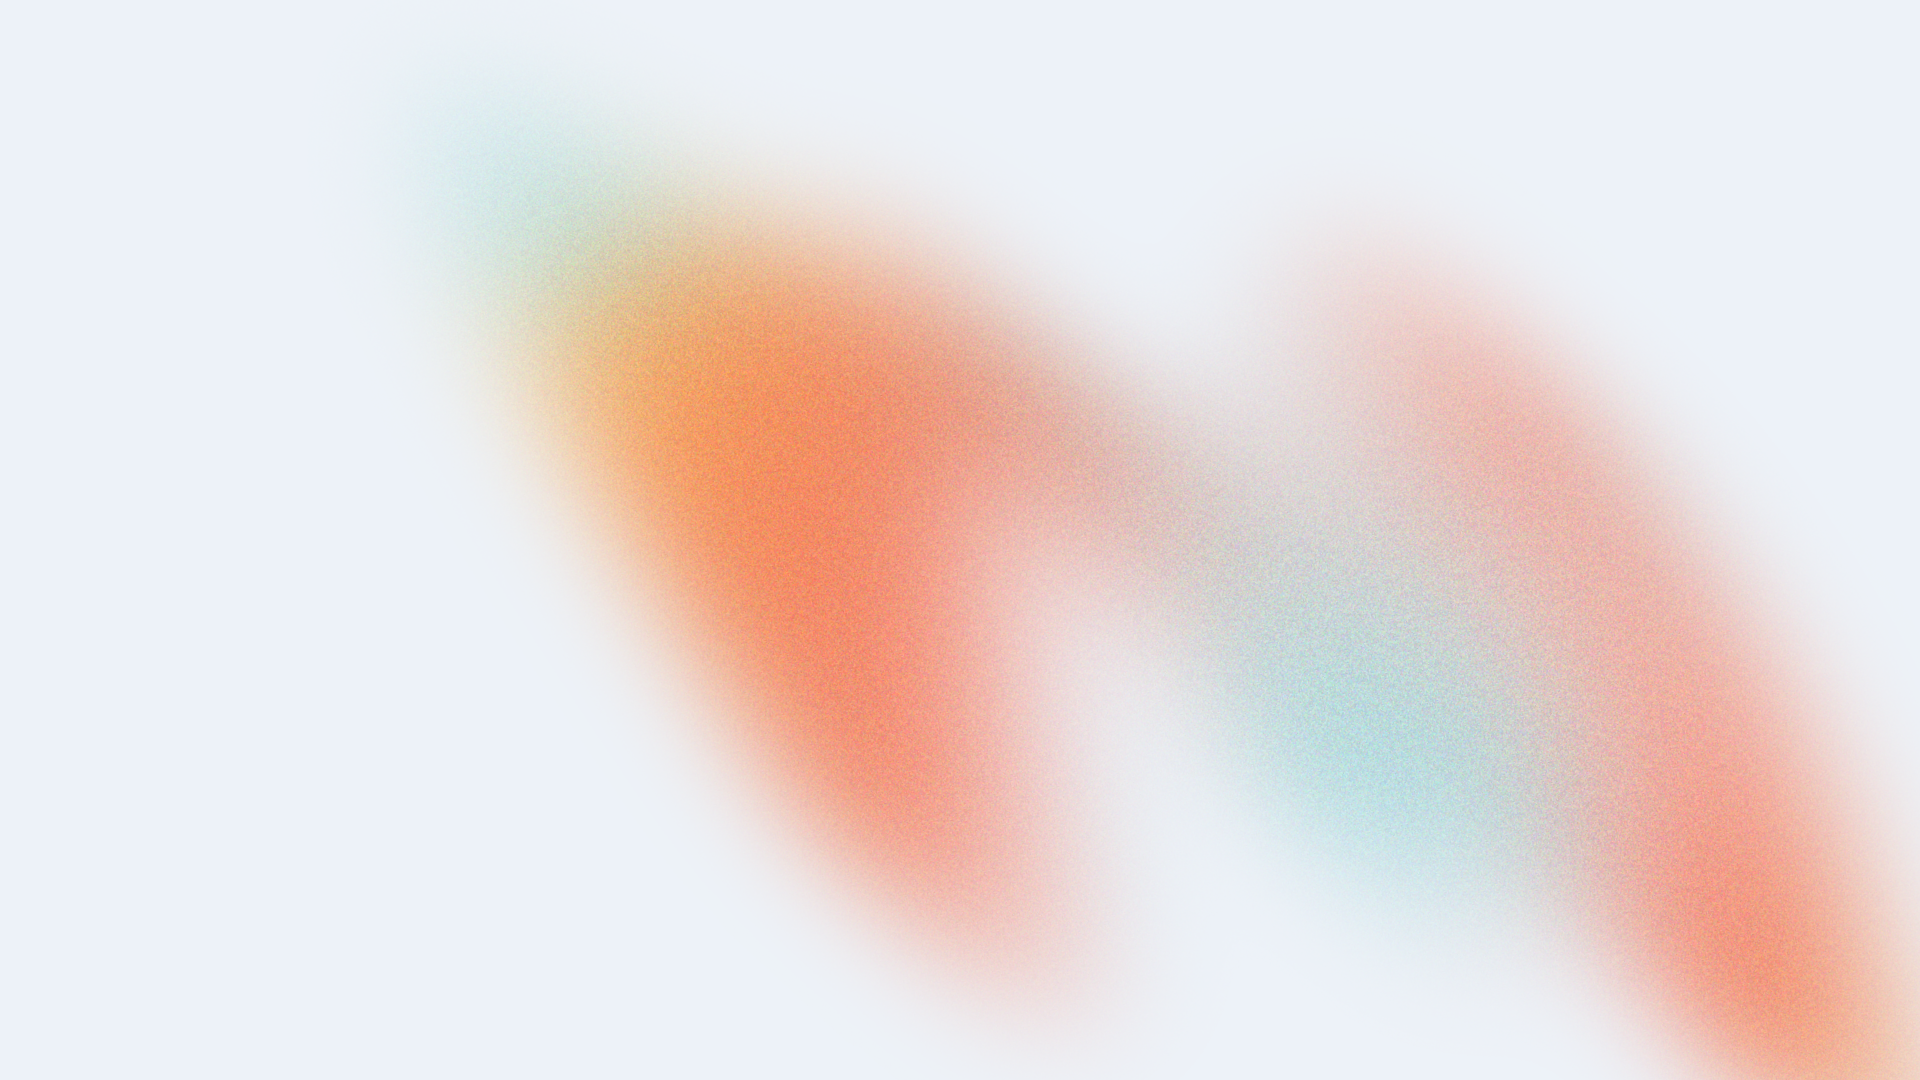
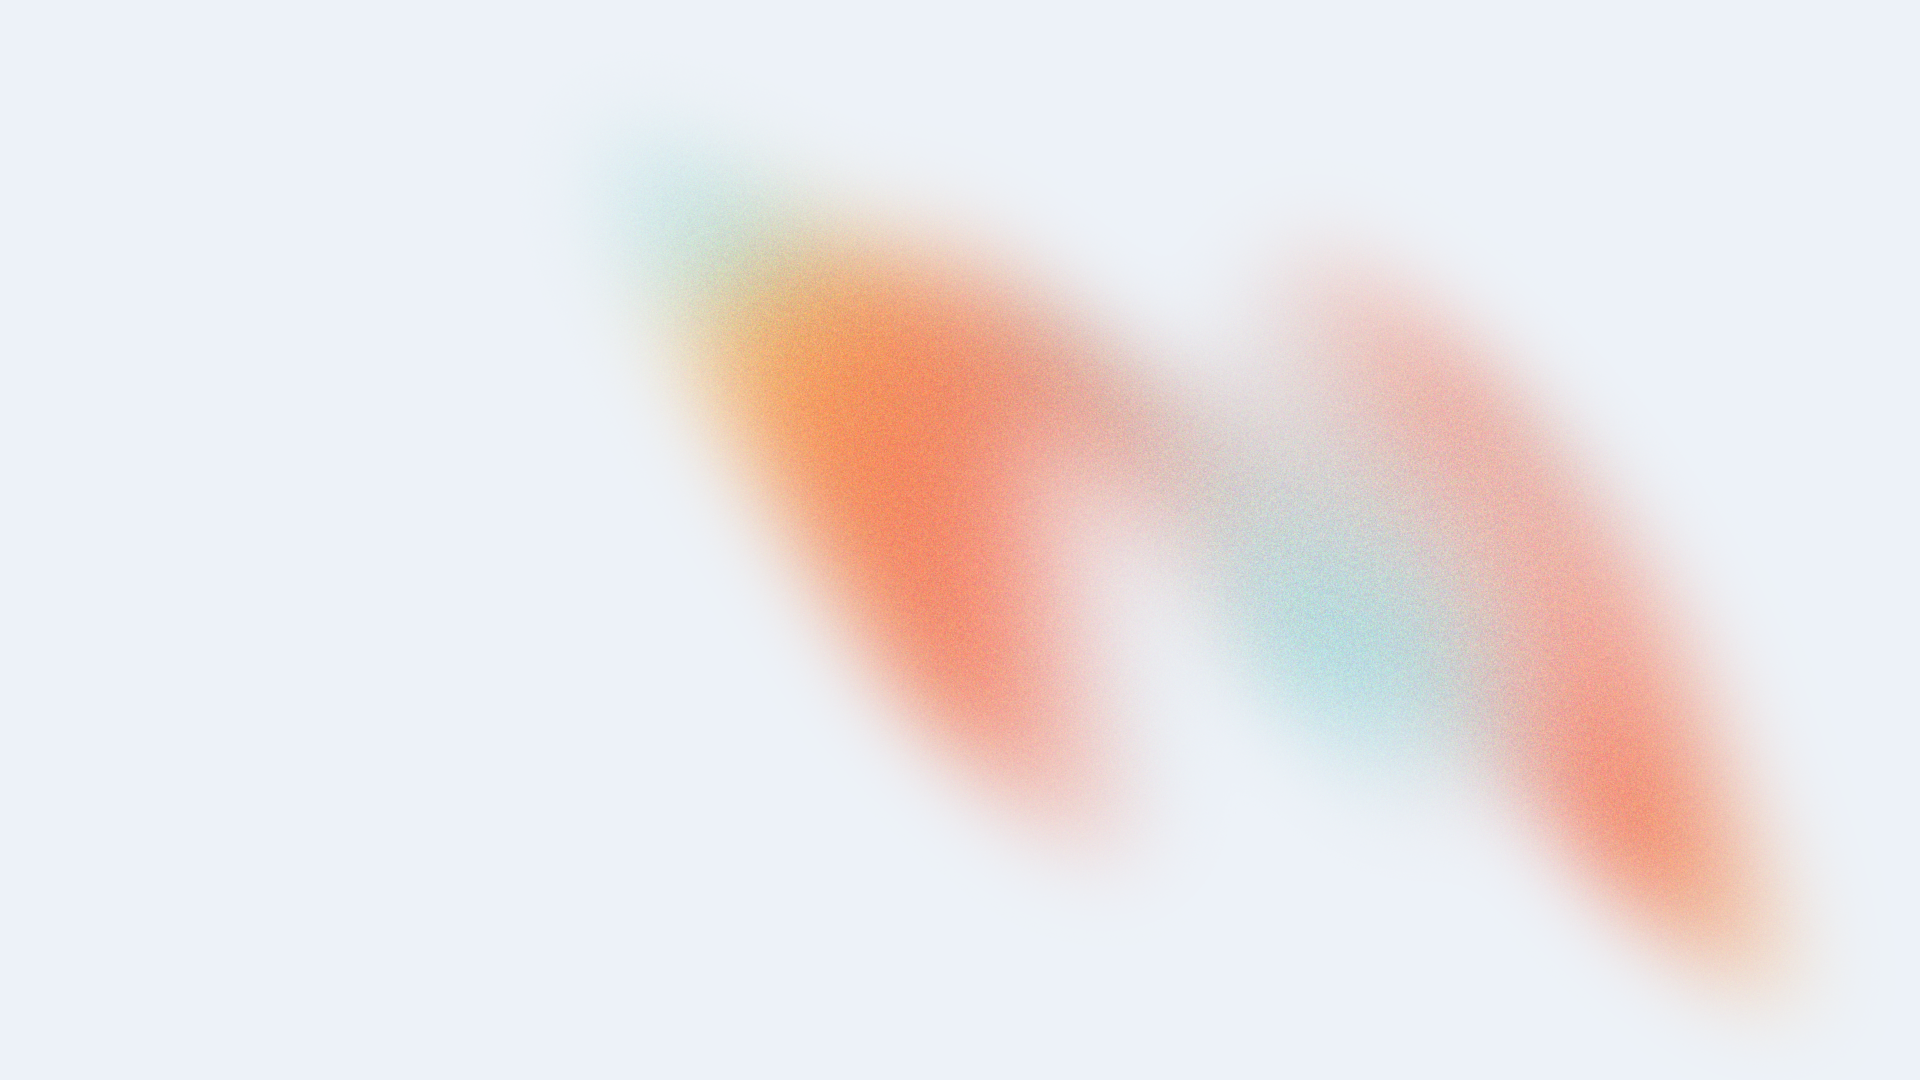
background updated

Changed region(s): [[0.25, 0.1222, 1.0, 1.0], [0.7188, 0.3667, 0.75, 0.3972]]

diff --git a/src/container/Header/Header.scss b/src/container/Header/Header.scss
@@ -1,7 +1,7 @@
 #home{
     position: relative;
     
-    background-image: url(../../assets/1.png);
+    background-image: url(../../assets/3.png);
     background-position: 0;
     background-size: cover;
     background-repeat: repeat;
@@ -26,6 +26,7 @@
     }
     
 }
+
 
 .app__header{
     flex: 1;

diff --git a/src/container/Footer/Footer.scss b/src/container/Footer/Footer.scss
@@ -1,7 +1,7 @@
 #footer{
     
     position: relative;
-    background-image: url(../../assets/5.png);
+    background-image: url(../../assets/6.png);
     background-position: 100%;
     background-size: cover;
     background-repeat: repeat;

diff --git a/src/container/Skills/Skills.scss b/src/container/Skills/Skills.scss
@@ -1,6 +1,6 @@
 #skills{
     position: relative;
-    background-image: url(../../assets/6.png);
+    background-image: url(../../assets/2.png);
     background-position: 100%;
     background-size: cover;
     background-repeat: repeat;

diff --git a/src/container/About/About.scss b/src/container/About/About.scss
@@ -1,6 +1,6 @@
 #about{
     position: relative;
-    background-image: url(../../assets/5.png);
+    background-image: url(../../assets/2.png);
     background-position: 100%;
     background-size: cover;
     background-repeat: repeat;

diff --git a/src/container/Work/Work.scss b/src/container/Work/Work.scss
@@ -1,6 +1,6 @@
 #work{
     position: relative;
-    background-image: url(../../assets/6.png);
+    background-image: url(../../assets/5.png);
     background-position: 100%;
     background-size: cover;
     background-repeat: repeat;
